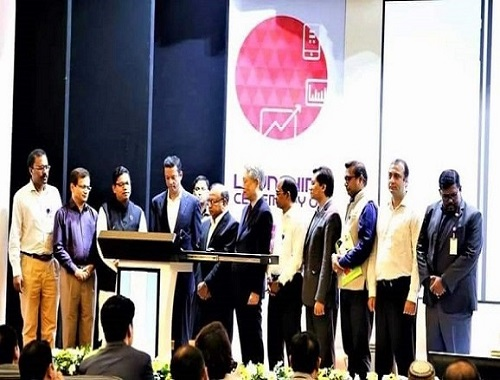
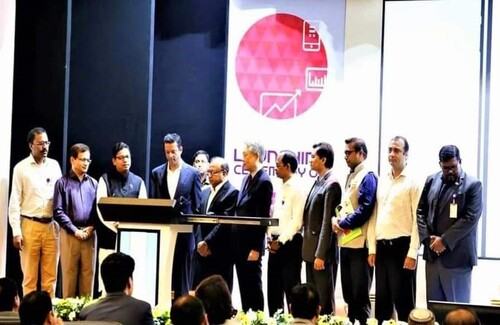
slider image size reduce

diff --git a/index.html b/index.html
@@ -72,9 +72,9 @@
 	<!-- ===========================About Section======================== -->
 
 	<section id="about_bg">
-		<div class="overflow-hidden" id="about-section">
+		<div class="container-fluid" id="about-section">
 			<div class="row">
-				<div class="col-12 col-md-12 col-lg-8 p-0">
+				<div class="col-12 col-md-12 col-lg-12 col-xl-7 p-0">
 					<div id="carouselExampleIndicators" class="carousel slide" data-ride="carousel">
 						<div class="carousel-inner">
 							<div class="carousel-item active">
@@ -123,9 +123,9 @@
 				</div>
 
 
-				<div style="background-color: #083f88;" class="col-12 col-md-12 col-lg-4 p-4">
-					<div style=" padding-right: px; text-align: justify; color: #ffffff;">
-						<h2 data-aos="fade-up" class="mt-0 text-left">About Dr. FZS</h2>
+				<div style="background-color: #083f88;" class="col-12 col-md-12 col-lg-12 col-xl-5 p-4">
+					<div style=" padding-right: px; text-align: justify; color: #ffffff; line-height:normal;">
+						<h2 data-aos="fade-up" class="text-left">About Dr. FZS</h2>
 						<p data-aos="fade-up">Dr. Forhad Zahid Shaikh, the "Chief, e-Governance Specialist" at a2i of
 							ICT Division
 							of
@@ -155,7 +155,7 @@
 						</p>
 
 						<!-- Button trigger modal -->
-						<button type="button" class="read_more_button mt-5" data-toggle="modal" data-target="#exampleModal">
+						<button type="button" class="read_more_button mt-4" data-toggle="modal" data-target="#exampleModal">
 							Read more
 						</button>
 					</div>
@@ -172,7 +172,7 @@
 									</div>
 									<div style="color: black;" class="modal-body">
 										<h5 style="color: black;">About</h5>
-										<p class="text-justify text-dark">Dr. Forhad Zahid Shaikh is serving as
+										<p  class="text-justify text-dark">Dr. Forhad Zahid Shaikh is serving as
 											"Chief,
 											e-Governance Specialist" at a2i
 											of ICT Division and the Cabinet Division of the Government of Bangladesh
